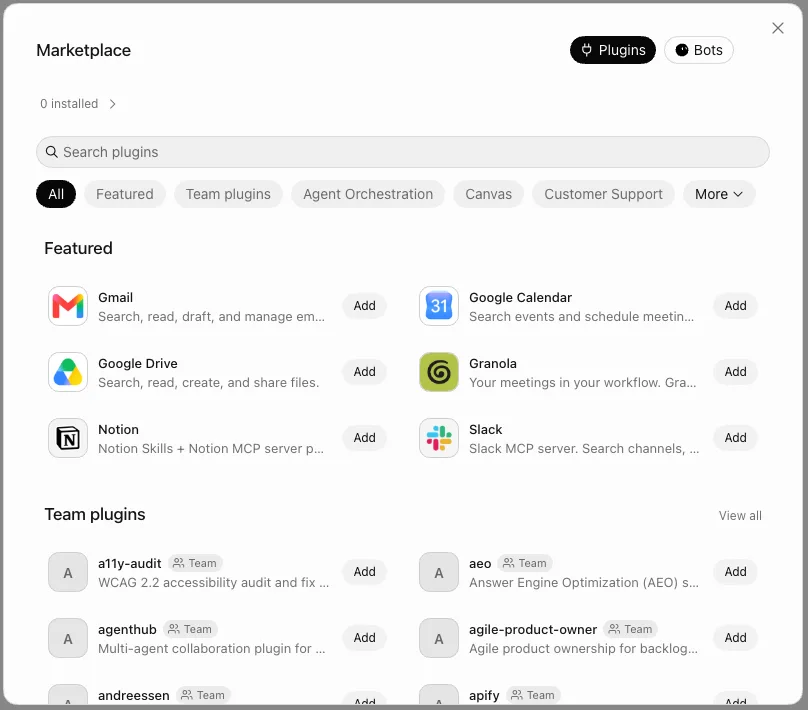
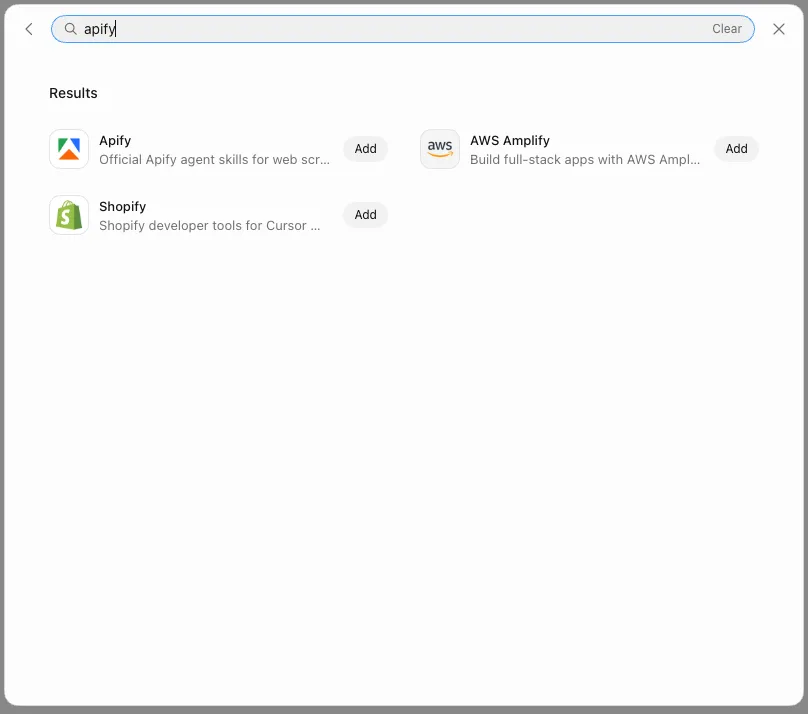
fix: review fixes

diff --git a/sources/platform/integrations/ai/grok-bot.md b/sources/platform/integrations/ai/grok-bot.md
@@ -9,7 +9,7 @@ import ThirdPartyDisclaimer from '@site/sources/_partials/_third-party-integrati
 
 [Grok Bot](https://docs.x.ai/grok-bot) is an AI teammate that works from a persistent cloud computer. It reads and edits files, runs commands, uses a browser, and completes multi-step development tasks.
 
-The [Apify plugin for Grok Bot](https://github.com/apify/apify-cursor-plugin) connects Grok Bot to Apify's library of [Actors](https://apify.com/store) and bundles:
+The Apify plugin connects Grok Bot to Apify's library of [Actors](https://apify.com/store) and bundles:
 
 - The [Apify MCP server](/integrations/mcp) for searching Apify Store, running Actors, and retrieving datasets through the [Model Context Protocol (MCP)](https://modelcontextprotocol.io/docs/getting-started/intro).
 - An `apify` routing agent that picks the right tool or skill from a natural-language request.
@@ -30,9 +30,9 @@ Connectors give a Bot a structured way to work with supported services. In the G
 
 1. Open **Settings** > **Plugins**. The **Marketplace** opens with the **Plugins** tab selected.
 
-    ![Grok Bot Marketplace with the Plugins tab selected, showing featured connectors and Add buttons](images/grok-bot/plugins-settings.webp)
+1. Browse or search for **Apify**.
 
-1. Browse the available connectors and find **Apify**.
+    ![Grok Bot plugin search results for apify, showing the Apify plugin card with an Add button](images/grok-bot/plugins-settings.webp)
 
 1. Choose **Add**.
 
@@ -58,9 +58,17 @@ The connection stays authenticated for future sessions. You can revoke access at
 
 In chat, type `@apify` to attach the Apify connector to the task. The routing agent picks the right tool or skill from a natural-language request, so you don't need to name tools yourself. Type `/` to reference a saved skill directly.
 
+Prefer the Apify connector over browsing Apify's website in the Grok Bot browser. A connector is often more reliable than clicking through a site.
+
 > @apify Use Apify to find a good Actor for scraping Google Maps places. Show me the best option, its input requirements, pricing model, and what kind of dataset output it returns. Do not run the Actor yet.
 
 The `apify` agent searches Apify Store, fetches the top Actor's details through the Apify MCP server, and summarizes its inputs, pricing, and output - all without running the Actor.
+
+:::caution Shared cloud computer
+
+All Bots on your account share the same cloud computer. Skills that edit files (Actor development, actorization, SDK integration) make changes there - review them before deploying or committing. Files and credentials you place on that computer are visible to every Bot.
+
+:::
 
 ## Bundled skills
 
@@ -90,7 +98,7 @@ _SDK integration:_
 
 ### The Apify plugin doesn't appear in Plugins
 
-Open **Settings** > **Plugins** and browse or search for **Apify**. If it still doesn't appear, sign out and back in to the Grok Bot app, then reopen **Plugins**. Confirm you added the connector on this account - installed connectors are account-wide, not isolated to one Bot.
+Open **Settings** > **Plugins** and browse or search for **Apify**. If it still doesn't appear, sign out and back in to the Grok Bot app, then reopen **Plugins**.
 
 ### Grok Bot picks the wrong skill
 
@@ -114,10 +122,6 @@ export APIFY_TOKEN=<YOUR_API_TOKEN>
 
 - Long-running Actors may exceed the time a single tool call waits for completion. Reduce the scope or split the work across multiple prompts.
 - Each Actor run consumes Apify platform usage from your plan in addition to any Grok Bot usage. See [Billing](/account/billing) for details.
-- Skills that edit files in your project (Actor development, actorization, SDK integration) make changes on the Grok Bot cloud computer - review them before deploying or committing.
-- Installed connectors are account-wide. Their availability is not isolated to one Bot.
-- All Bots on your account share the same cloud computer. Files and credentials you place there are visible to every Bot.
-- Prefer the Apify connector over browsing Apify's website in the Grok Bot browser. A connector is often more reliable than clicking through a site.
 
 ## Related integrations
 
@@ -126,6 +130,5 @@ export APIFY_TOKEN=<YOUR_API_TOKEN>
 
 ## Resources
 
-- [Apify plugin for Grok Bot](https://github.com/apify/apify-cursor-plugin) - Source repository and full README with advanced setup notes (all auth paths, available MCP tools)
 - [Grok Bot documentation](https://docs.x.ai/grok-bot/computer-and-apps#connect-an-app) - Official Grok Bot docs for connecting apps
 - [Apify Store](https://apify.com/store) - Browse Actors you can run from Grok Bot
